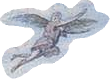
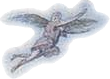
- Added sun actor. - Icarus can heat up and get burnt in the sun, cool down in the shadow of   clouds, and grow weary from flying. - Icarus has two states: flying and falling.

diff --git a/lib/feather/main.py b/lib/feather/main.py
@@ -7,6 +7,9 @@ from pyglet.gl import *
 import rabbyt
 import sys
 
+def clamp(x, min_x, max_x):
+    return max(min_x, min(max_x, x))
+
 class Screen(object):
     def __init__(self, window):
         self.window = window
@@ -46,26 +49,46 @@ class Actor(object):
     def draw(self):
         pass
 
+class Sun(Actor):
+    def __init__(self, game_screen, position=(0, 0)):
+        self.game_screen = game_screen
+        self.position = position
+
+    def step(self, dt):
+        segment = b2Segment()
+        segment.p1 = self.position
+        segment.p2 = self.game_screen.icarus.body.position
+        _, _, shape = self.game_screen.world.RaycastOne(segment, True, None)
+        if shape is not None and shape.GetBody().userData is self.game_screen.icarus:
+            self.game_screen.icarus.heating = 1
+        else:
+            self.game_screen.icarus.heating = 0
+
 class Icarus(Actor):
     def __init__(self, game_screen, position=(0, 0)):
         self.game_screen = game_screen
-        self._init_body(position)
-        self._init_sprite()
-        self._keys = set()
-        self._power = 1
-        self._facing = 1
+        self.init_body(position)
+        self.init_sprite()
+        self.keys = set()
+        self.heating = 0
+        self.temperature = 0
+        self.damage = 0
+        self.fatigue = 0
+        self.state = 'flying'
+        self.facing = 1
 
-    def _init_body(self, position):
+    def init_body(self, position):
         body_def = b2BodyDef()
         body_def.position = position
         self.body = self.game_screen.world.CreateBody(body_def)
+        self.body.userData = self
         shape_def = b2CircleDef()
         shape_def.radius = 0.5
         shape_def.density = 1
         self.body.CreateShape(shape_def)
         self.body.SetMassFromShapes()
 
-    def _init_sprite(self):
+    def init_sprite(self):
         texture = pyglet.resource.texture('images/icarus.png')
         self.sprite = rabbyt.Sprite(texture, scale=0.02)
 
@@ -74,46 +97,76 @@ class Icarus(Actor):
 
     def draw(self):
         self.sprite.xy = self.body.position.tuple()
-        self.sprite.scale_x = self._facing * abs(self.sprite.scale_x)
+        self.sprite.scale_x = self.facing * abs(self.sprite.scale_x)
+        if self.state == 'falling':
+            self.sprite.scale_y = -abs(self.sprite.scale_y)
+        else:
+            self.sprite.scale_y = abs(self.sprite.scale_y)
+
+        # Fade to red as Icarus is heated by the sun, then fade to black as he
+        # is burnt.
+        damage_factor = 0.5 + 0.5 * clamp(1 - self.damage, 0, 1)
+        temperature_factor = clamp(1 - self.temperature, 0, 1)
+        self.sprite.red = damage_factor
+        self.sprite.green = damage_factor * temperature_factor
+        self.sprite.blue = damage_factor * temperature_factor
+
         self.sprite.render()
 
     def step(self, dt):
-        up = pyglet.window.key.UP in self._keys
-        left = pyglet.window.key.LEFT in self._keys
-        right = pyglet.window.key.RIGHT in self._keys
+        if self.heating:
+            self.temperature = (dt / config.heat_duration +
+                                clamp(self.temperature, 0, 1))
+            if self.temperature >= 1:
+                self.damage = (dt / config.burn_duration +
+                               clamp(self.damage, 0, 1))
+        else:
+            self.temperature = min(1, self.temperature)
+            self.temperature = (clamp(self.temperature, 0, 1) -
+                                dt / config.cool_duration)
+        if self.damage >= 1 or self.fatigue >= 1:
+            self.state = 'falling'
+        if self.state == 'flying':
+            self.step_flying(dt)
+
+    def step_flying(self, dt):
+        self.fatigue = dt / config.flight_duration + clamp(self.fatigue, 0, 1)
+        up = pyglet.window.key.UP in self.keys
+        left = pyglet.window.key.LEFT in self.keys
+        right = pyglet.window.key.RIGHT in self.keys
         if left ^ right:
-            self._facing = right - left
-        lift_force = up * self._power * config.icarus_lift_force
+            self.facing = right - left
+        lift_force = up * config.icarus_lift_force
         side_force = (right - left) * config.icarus_side_force
-        left = pyglet.window.key.LEFT in self._keys
-        right = pyglet.window.key.LEFT in self._keys
+        left = pyglet.window.key.LEFT in self.keys
+        right = pyglet.window.key.LEFT in self.keys
         air_force = -(self.body.linearVelocity * config.icarus_air_resistance)
         self.body.ApplyForce(b2Vec2(side_force, lift_force) + air_force,
                              self.body.position)
 
     def on_key_press(self, symbol, modifiers):
-        self._keys.add(symbol)
+        self.keys.add(symbol)
     
     def on_key_release(self, symbol, modifiers):
-        self._keys.discard(symbol)
+        self.keys.discard(symbol)
 
 class Cloud(Actor):
     def __init__(self, game_screen, position=(0, 0)):
         self.game_screen = game_screen
-        self._init_body(position)
-        self._init_sprite()
+        self.init_body(position)
+        self.init_sprite()
 
-    def _init_body(self, position):
+    def init_body(self, position):
         body_def = b2BodyDef()
         body_def.position = position
         self.body = self.game_screen.world.CreateBody(body_def)
-        shape_def = b2CircleDef()
-        shape_def.radius = 1
-        shape_def.density = 0.1
+        shape_def = b2PolygonDef()
+        shape_def.SetAsBox(2, 0.5)
+        # shape_def.density = 0.1
         self.body.CreateShape(shape_def)
         self.body.SetMassFromShapes()
 
-    def _init_sprite(self):
+    def init_sprite(self):
         texture = pyglet.resource.texture('images/cloud.png')
         self.sprite = rabbyt.Sprite(texture, scale=0.02)
 
@@ -131,10 +184,11 @@ class Cloud(Actor):
 class GameScreen(Screen):
     def __init__(self, window):
         super(GameScreen, self).__init__(window)
-        self._init_world()
-        self._clock_display = pyglet.clock.ClockDisplay()
-        self._icarus = Icarus(self)
-        self._clouds = [Cloud(self, (-5, 5)), Cloud(self, (5, 5))]
+        self.init_world()
+        self.clock_display = pyglet.clock.ClockDisplay()
+        self.icarus = Icarus(self)
+        self.clouds = [Cloud(self, (-5, 3)), Cloud(self, (5, 4))]
+        self.sun = Sun(self, (0, 20))
         self.time = 0
         self.dt = 1 / 60
         self.world_time = 0
@@ -148,42 +202,55 @@ class GameScreen(Screen):
         self.time += dt
         while self.world_time + self.dt <= self.time:
             self.world_time += self.dt
-            self._icarus.step(self.dt)
-            for cloud in self._clouds:
+            self.icarus.step(self.dt)
+            self.sun.step(self.dt)
+            for cloud in self.clouds:
                 cloud.step(self.dt)
             self.world.Step(self.dt, config.position_iterations,
                             config.velocity_iterations)
 
-    def _init_world(self):
+    def init_world(self):
         aabb = b2AABB()
         aabb.lowerBound = -100, -100
         aabb.upperBound = 100, 100
         self.world = b2World(aabb, (0, -config.gravity), True)
 
     def on_draw(self):
-        glClearColor(0.7, 0.8, 0.9, 0)
+        red, green, blue = config.background_color
+        glClearColor(red, green, blue, 0)
         self.window.clear()
         glPushMatrix()
         glTranslatef(self.window.width // 2, self.window.height // 2, 0)
         scale = self.window.height / 15
         glScalef(scale, scale, scale)
-        self._icarus.draw()
-        for cloud in self._clouds:
+        self.icarus.draw()
+        for cloud in self.clouds:
             cloud.draw()
         glPopMatrix()
         if config.fps:
-            self._clock_display.draw()
+            self.clock_display.draw()
+        if self.icarus.fatigue >= 0.5:
+            glBindTexture(GL_TEXTURE_2D, 0)
+            glColor4f(0, 0, 0, clamp(self.icarus.fatigue, 0, 1) - 0.5)
+            glBegin(GL_QUADS)
+            glVertex2f(0, 0)
+            glVertex2f(self.window.width, 0)
+            glVertex2f(self.window.width, self.window.height)
+            glVertex2f(0, self.window.height)
+            glEnd()
+        else:
+            fatigue_factor = 1
         return pyglet.event.EVENT_HANDLED
 
     def on_key_press(self, symbol, modifiers):
         if symbol == pyglet.window.key.ESCAPE:
             self.delete()
         else:
-            self._icarus.on_key_press(symbol, modifiers)
+            self.icarus.on_key_press(symbol, modifiers)
         return pyglet.event.EVENT_HANDLED
 
     def on_key_release(self, symbol, modifiers):
-        self._icarus.on_key_release(symbol, modifiers)
+        self.icarus.on_key_release(symbol, modifiers)
         return pyglet.event.EVENT_HANDLED
 
 def main():

diff --git a/lib/feather/config.py b/lib/feather/config.py
@@ -6,3 +6,8 @@ velocity_iterations = 10
 icarus_lift_force = 15
 icarus_side_force = 5
 icarus_air_resistance = 1
+heat_duration = 5
+burn_duration = 5
+cool_duration = 10
+flight_duration = 10
+background_color = 0.7, 0.8, 0.9
